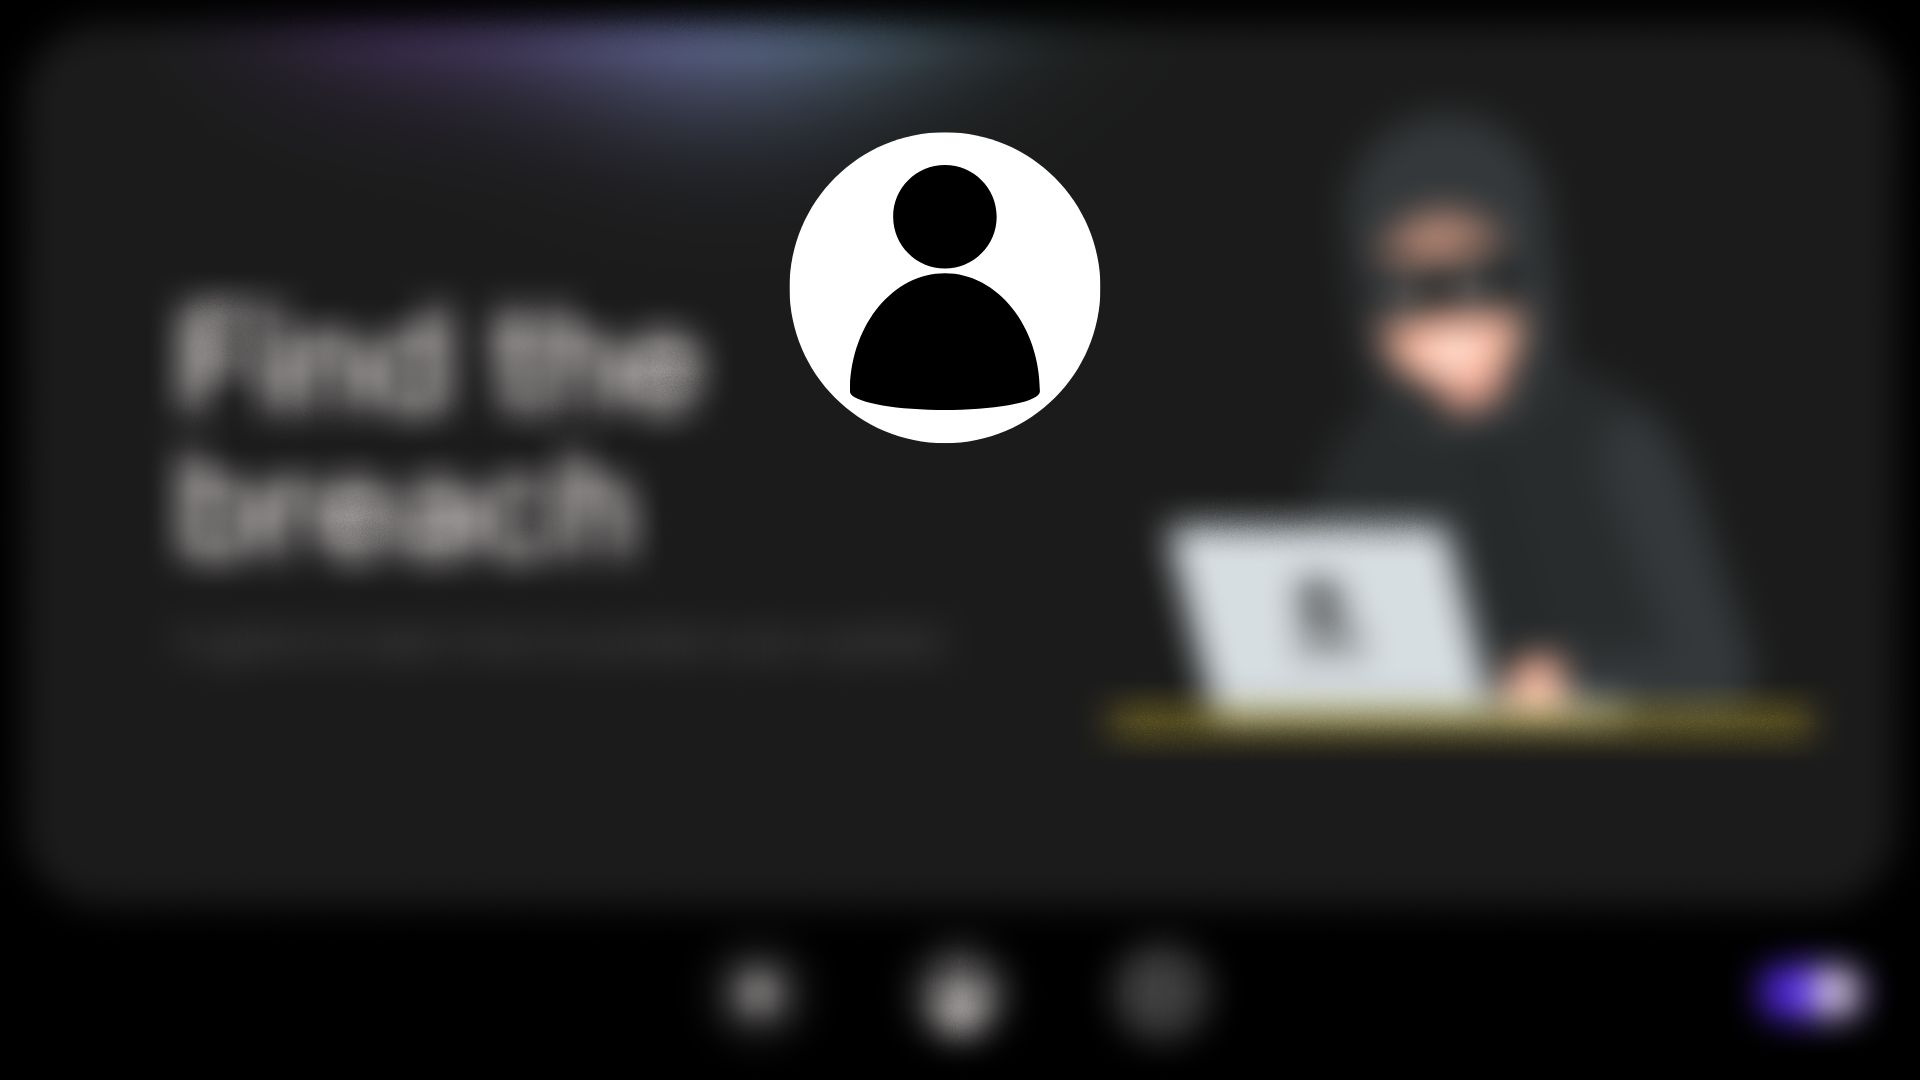
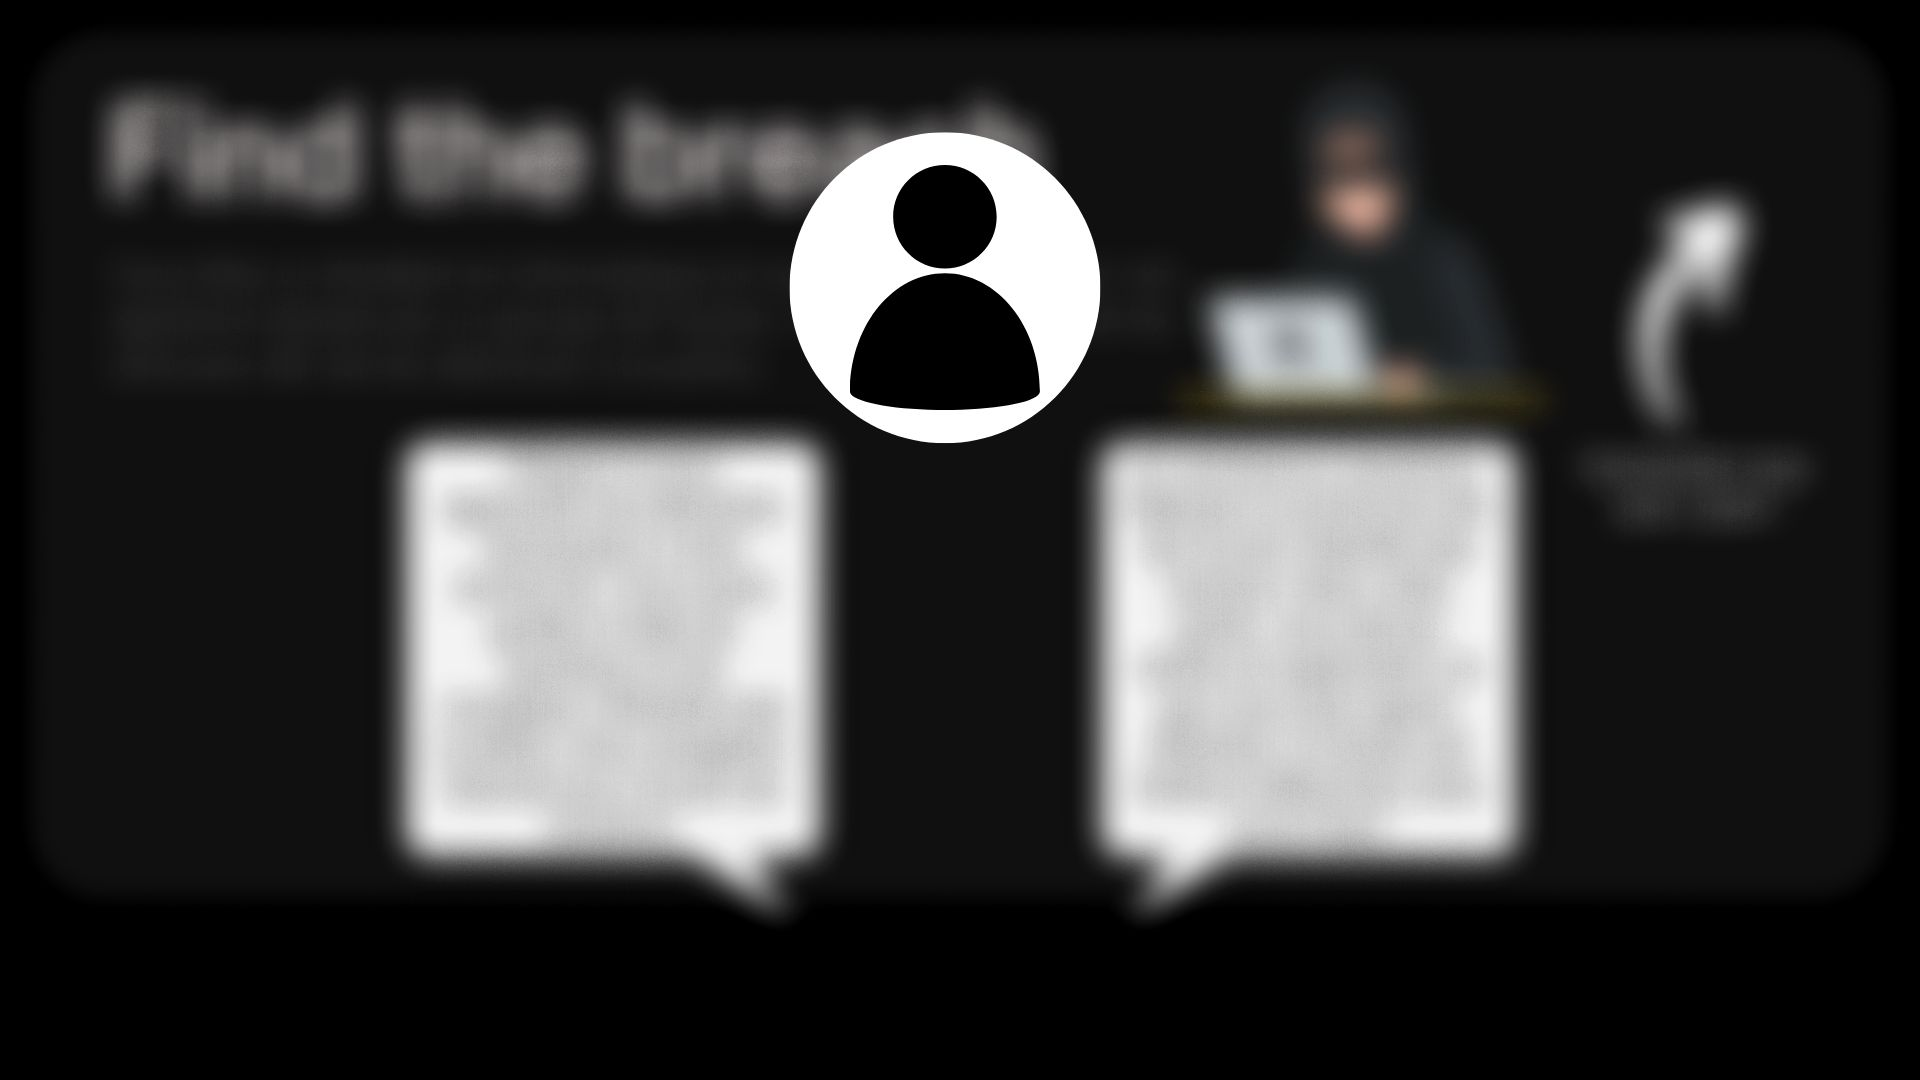
Changement ordre des pages (login après accueil) et ajout infos accueil

diff --git a/src/main/resources/sae_s3/findthebreach/style.css b/src/main/resources/sae_s3/findthebreach/style.css
@@ -1,5 +1,11 @@
 #home {
-    -fx-background-image: url("./pictures/accueil_background.jpg");
+    -fx-background-image: url("pictures/home_background.jpg");
+    -fx-background-repeat: no-repeat;
+    -fx-background-position: center;
+    -fx-background-size: 100% 100%;
+}
+#home_logged {
+    -fx-background-image: url("pictures/home_logged_background.jpg");
     -fx-background-repeat: no-repeat;
     -fx-background-position: center;
     -fx-background-size: 100% 100%;
@@ -34,7 +40,7 @@
 }
 
 #login {
-    -fx-background-image: url("./pictures/login_background.jpg");
+    -fx-background-image: url("pictures/login_background.jpg");
     -fx-background-repeat: no-repeat;
     -fx-background-position: center;
     -fx-background-size: 100% 100%;

diff --git a/target/classes/sae_s3/findthebreach/style.css b/target/classes/sae_s3/findthebreach/style.css
@@ -1,5 +1,11 @@
 #home {
-    -fx-background-image: url("./pictures/accueil_background.jpg");
+    -fx-background-image: url("pictures/home_background.jpg");
+    -fx-background-repeat: no-repeat;
+    -fx-background-position: center;
+    -fx-background-size: 100% 100%;
+}
+#home_logged {
+    -fx-background-image: url("pictures/home_logged_background.jpg");
     -fx-background-repeat: no-repeat;
     -fx-background-position: center;
     -fx-background-size: 100% 100%;
@@ -34,7 +40,7 @@
 }
 
 #login {
-    -fx-background-image: url("./pictures/login_background.jpg");
+    -fx-background-image: url("pictures/login_background.jpg");
     -fx-background-repeat: no-repeat;
     -fx-background-position: center;
     -fx-background-size: 100% 100%;

diff --git a/src/main/java/sae_s3/findthebreach/LoginController.java b/src/main/java/sae_s3/findthebreach/LoginController.java
@@ -2,6 +2,11 @@ package sae_s3.findthebreach;
 
 import javafx.event.ActionEvent;
 import javafx.fxml.FXML;
+import javafx.fxml.FXMLLoader;
+import javafx.scene.Node;
+import javafx.scene.Parent;
+import javafx.scene.Scene;
+import javafx.stage.Stage;
 
 import java.io.IOException;
 import java.net.URI;
@@ -9,6 +14,23 @@ import java.net.URISyntaxException;
 import java.awt.Desktop;
 
 public class LoginController {
+    private Stage stage;
+    private Scene scene;
+    private Parent root;
+    private static String data;
+
+    @FXML
+    public void switchTo(ActionEvent event) throws IOException {
+        Node node = (Node) event.getSource() ;
+        data = (String) node.getUserData();
+        root = FXMLLoader.load(getClass().getResource(data));
+        stage = (Stage) ((Node)event.getSource()).getScene().getWindow();
+        scene = new Scene(root,1280, 720);
+        scene.getStylesheets().addAll(this.getClass().getResource("style.css").toExternalForm());
+        stage.setTitle("Find the breach");
+        stage.setScene(scene);
+        stage.show();
+    }
     @FXML
     public void openRegister(ActionEvent e) throws URISyntaxException, IOException {
         Desktop desktop = Desktop.getDesktop();

diff --git a/src/main/java/sae_s3/findthebreach/Main.java b/src/main/java/sae_s3/findthebreach/Main.java
@@ -10,7 +10,7 @@ import java.io.IOException;
 public class Main extends Application {
     @Override
     public void start(Stage stage) throws IOException {
-        FXMLLoader fxmlLoader = new FXMLLoader(Main.class.getResource("game.fxml"));
+        FXMLLoader fxmlLoader = new FXMLLoader(Main.class.getResource("home.fxml"));
         Scene scene = new Scene(fxmlLoader.load(), 1280, 720);
         scene.getStylesheets().addAll(this.getClass().getResource("style.css").toExternalForm());
         stage.setTitle("Find the breach");

diff --git a/src/main/java/sae_s3/findthebreach/HomeController.java b/src/main/java/sae_s3/findthebreach/HomeController.java
@@ -28,4 +28,9 @@ public class HomeController {
         stage.setScene(scene);
         stage.show();
     }
+
+    @FXML
+    public void quit(ActionEvent e) {
+        System.exit(0);
+    }
 }
